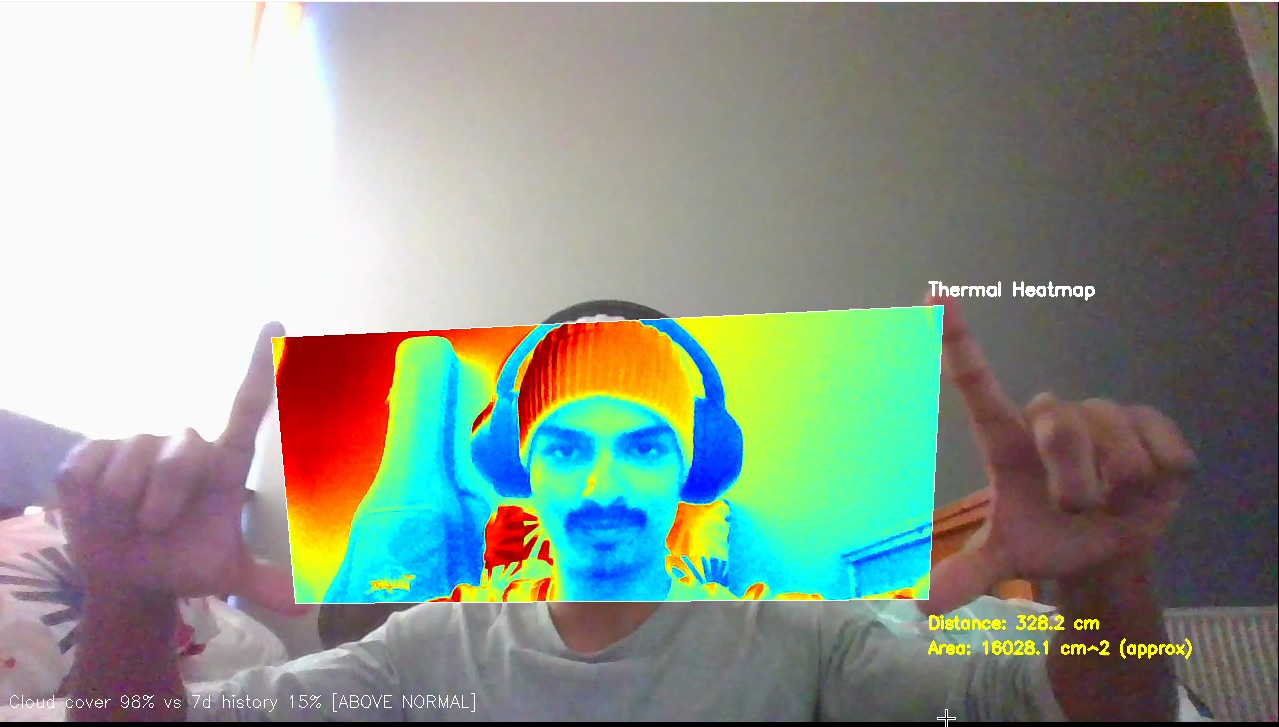
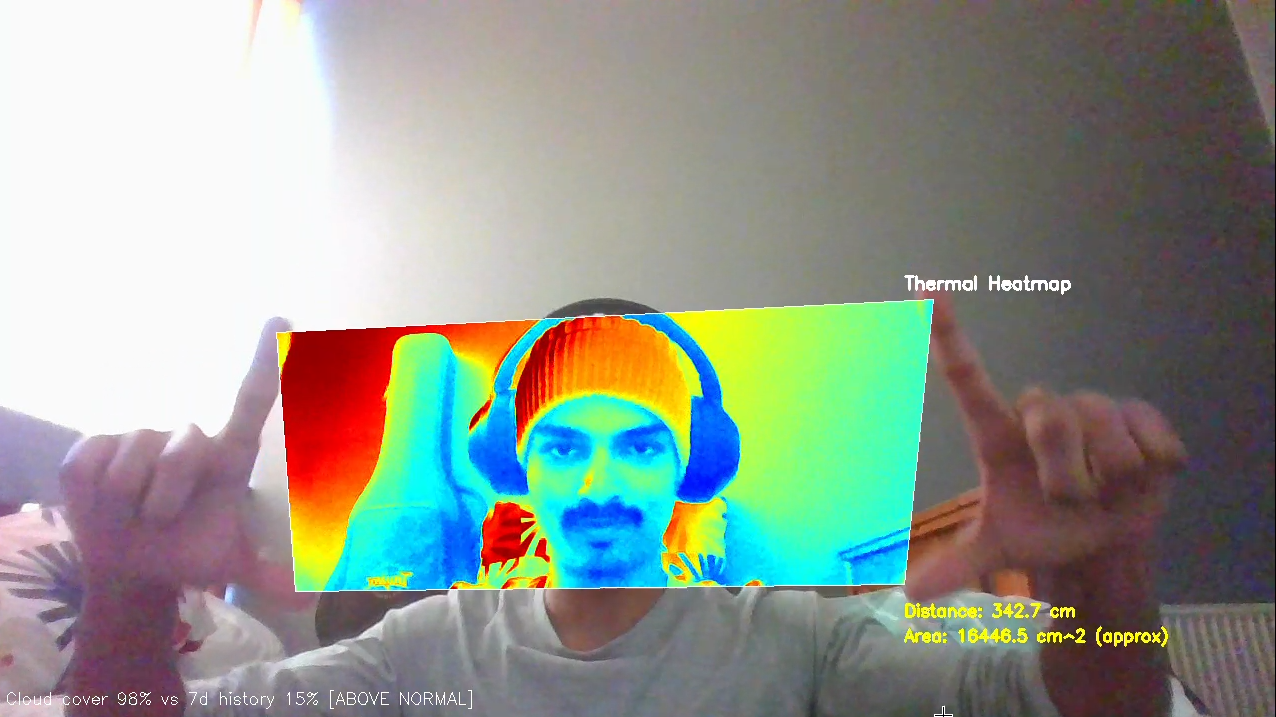
Expand README with detailed docs and demo image

diff --git a/README.md b/README.md
@@ -1,41 +1,87 @@
-# Drone_Filter
-
-A webcam-based "aerial camera" simulator. Frame a rectangular portal with both hands (thumb and index finger of each hand) and the region inside it is rendered through a swappable filter, styled like a drone/thermal/multispectral camera feed.
-
-![Thermal Heatmap demo](assets/demo_thermal_heatmap.png)
-
-## Features
-
-- **Hand-tracked portal**   MediaPipe Hands tracks both hands; the four fingertip points define a warped quad that the filter is applied inside.
-- **Pinch-to-close gesture**   closing the portal (bringing the hands together) cycles to the next filter.
-- **Filters**: Grid Overlay, Posterize, Halftone Dots, RGB Glitch Shift, Thermal Heatmap, Vintage Sepia, Soft White Glow, Pink Halftone, Pseudo-NDVI (Vegetation), Night Vision, Haze Index.
-- **Distance & area estimation**   approximates the real-world distance and area covered by the portal using hand geometry.
-- **Motion detection overlay**   toggle with `m` to highlight moving regions in frame.
-- **Simulated weather/cloud-cover readout**   overlays a status line for context (e.g. cloud cover vs. historical average).
-- Kalman-filtered fingertip tracking for a stable, jitter-free portal.
-
-## Usage
-
-```
-pip install -r requirements.txt
-python main.py
-```
-
-- Point both index fingers and thumbs to form a rectangle in front of the camera to open the portal.
-- Bring your hands together to close the portal and cycle to the next filter.
-- Press `m` to toggle motion detection.
-- Press `q` to quit.
-
-## Project structure
-
-| File | Purpose |
-|---|---|
-| `main.py` | Camera loop, hand tracking, and UI overlay |
-| `Drone_filter.py` | Image filter implementations |
-| `Shape.py` | Portal rendering and closing-gesture detection |
-| `Hand_Pos.py` | MediaPipe landmark index constants |
-| `Kalman_Tracker.py` | Kalman filter for smoothing tracked points |
-| `Distance_Estimator.py` | Distance/area estimation from hand geometry |
-| `Motion_Detector.py` | Frame-difference based motion detection |
-| `Weather_History.py` | Simulated weather/cloud-cover status overlay |
-
+# Drone_Filter
+
+A webcam-based "aerial camera" simulator built with OpenCV and MediaPipe. Frame a rectangular portal in mid-air using both hands, and the region inside it is rendered live through a swappable image filter — styled after drone, thermal, and multispectral camera feeds.
+
+![Thermal Heatmap demo](assets/demo_thermal_heatmap.png)
+
+## How it works
+
+1. **Hand tracking** — [MediaPipe Hands](https://google.github.io/mediapipe/) locates both hands in the webcam feed (processed on a downscaled frame for speed, then mapped back to full resolution).
+2. **Portal definition** — the index-finger-tip and thumb-tip of each hand form four corner points (`p1`–`p4`). These are smoothed frame-to-frame with a per-point Kalman filter to remove landmark jitter, then warped into a quadrilateral "portal."
+3. **Filter compositing** — the region of the frame inside the portal polygon is masked out, run through the active filter function, and alpha-blended back into the frame, with a white outline drawn around the portal.
+4. **Gesture-driven filter cycling** — the portal's width is tracked continuously. Bringing your hands together until the portal width drops below ~16% of the frame width triggers a "close" event, advancing to the next filter; the gesture re-arms once the hands move back apart past ~30% of the frame width.
+5. **HUD overlays** — real-world distance and area of the framed region are estimated from hand geometry, and a simulated cloud-cover/weather readout is drawn in the corner for atmosphere.
+
+## Features
+
+- **Hand-tracked portal** — a live quad defined by both hands' thumb and index fingertips.
+- **11 built-in filters**, cycled with a pinch-and-close gesture:
+  - Grid Overlay
+  - Posterize
+  - Halftone Dots
+  - RGB Glitch Shift
+  - Thermal Heatmap
+  - Vintage Sepia
+  - Soft White Glow
+  - Pink Halftone
+  - Pseudo-NDVI (Vegetation)
+  - Night Vision
+  - Haze Index
+- **Distance & area estimation** — approximates real-world distance and area covered by the portal from hand geometry.
+- **Motion detection overlay** — toggle with `m` to highlight moving regions in frame using frame differencing.
+- **Simulated weather/cloud-cover readout** — overlays a status line comparing current cloud cover to a 7-day historical baseline.
+- **Kalman-filtered fingertip tracking** — smooths out landmark noise for a stable, non-jittery portal edge.
+
+## Requirements
+
+- Python 3.12+ (built and tested against `mediapipe==0.10.21`, which targets CPython 3.12)
+- A webcam accessible via OpenCV's DirectShow backend (Windows)
+
+See [requirements.txt](requirements.txt) for pinned dependency versions:
+
+```
+opencv-contrib-python==4.10.0.84
+mediapipe==0.10.21
+numpy<2
+```
+
+## Installation
+
+```bash
+python -m venv .venv
+.venv\Scripts\activate      # Windows
+pip install -r requirements.txt
+```
+
+## Usage
+
+```bash
+python main.py
+```
+
+- Point both index fingers and thumbs to form a rectangle in front of the camera to open the portal.
+- Bring your hands together to close the portal and cycle to the next filter.
+- Press `m` to toggle motion detection.
+- Press `q` to quit.
+
+## Project structure
+
+| File | Purpose |
+|---|---|
+| `main.py` | Camera capture loop, hand tracking, portal assembly, and HUD rendering |
+| `Drone_filter.py` | All image filter implementations plus the `FILTERS` / `FILTER_NAMES` registry |
+| `Shape.py` | Portal polygon compositing (`render_portal`) and the closing-gesture state machine |
+| `Hand_Pos.py` | MediaPipe hand landmark index constants (wrist, fingertip, MCP joints) |
+| `Kalman_Tracker.py` | Per-point Kalman filter used to smooth tracked fingertip positions |
+| `Distance_Estimator.py` | Estimates real-world distance and area of the portal from hand geometry |
+| `Motion_Detector.py` | Frame-difference based motion detection and bounding-box overlay |
+| `Weather_History.py` | Simulated weather/cloud-cover status text for the HUD |
+
+## Adding a new filter
+
+Filters are plain functions with the signature `roi: np.ndarray -> np.ndarray` (BGR in, BGR out, same shape). To add one:
+
+1. Write the function in [Drone_filter.py](Drone_filter.py).
+2. Add it to the `FILTERS` list and give it a display name in `FILTER_NAMES`.
+
+It will automatically be included in the pinch-to-cycle rotation.
